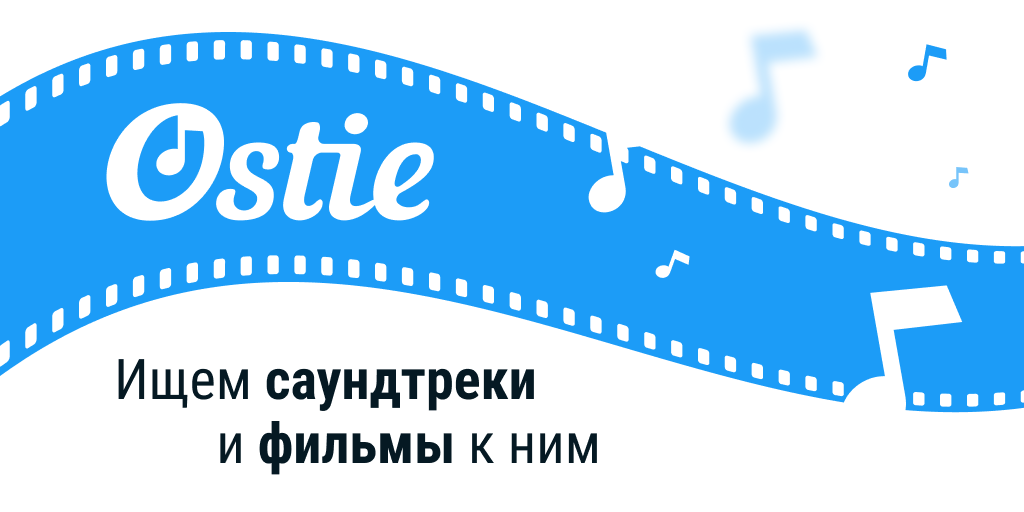
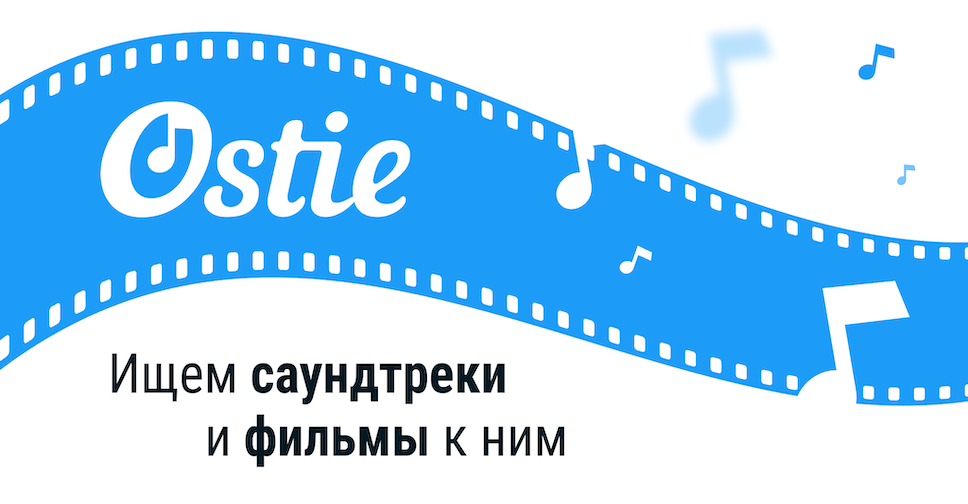
social

diff --git a/nuxt.config.js b/nuxt.config.js
@@ -22,8 +22,8 @@ export default {
       { property: "og:image", content: "/img-social-share.png"},
       { property: "og:site_name", content: "ostie.org"},
       { property: "og:locale", content: "ru_RU"},
-      { property: "og:image:width", content: "1024"},
-      { property: "og:image:height", content: "512"}
+      { property: "og:image:width", content: "968"},
+      { property: "og:image:height", content: "504"}
     ],
     link: [
       { rel: 'icon', type: 'image/x-icon', href: '/favicon.ico'},
